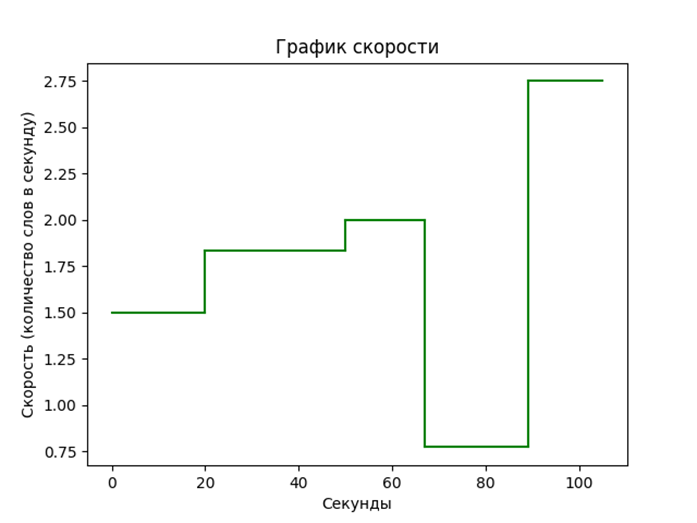
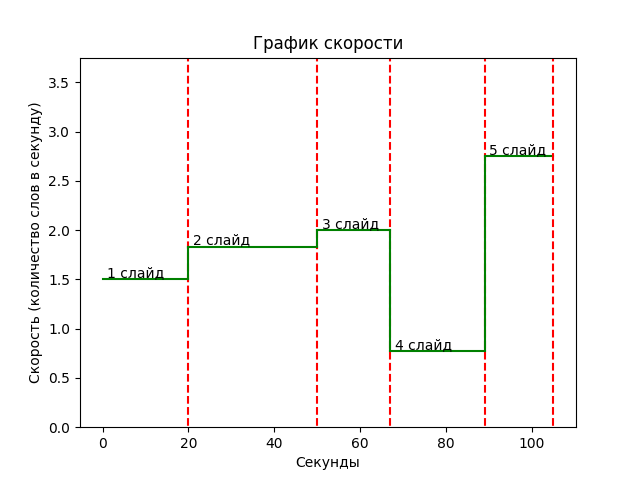
График скорости
Добавление линий, которые разделяют на графике слайде, и подписей, чтобы было понятно, на каком слайде была такая скорость.

Changed region(s): [[0.0625, 0.0625, 0.9062, 1.0], [0.0312, 0.1875, 0.125, 0.8125], [0.0625, 0.125, 0.125, 0.1875]]

diff --git a/analysis.py b/analysis.py
@@ -32,6 +32,7 @@ def wordsOnSlide(listWord):
 # и список полученный из wordsOnSlide
 def simpleSpeed(time, countWord):
     speed = []
+    max = 0
     for i in range(len(time)):
         if i == 0:
             t = time[0]
@@ -39,20 +40,22 @@ def simpleSpeed(time, countWord):
             t = time[i] - time[i - 1]
         speed.append(countWord[i] / t)
     for i in range(len(speed)):
+        if (max < speed[i]):
+            max = speed[i]
         if i == 0:
             pylab.plot([0.0, time[0]], [speed[i], speed[i]], 'g')
+            pylab.plot([time[0], time[0]], [-1.0, 10.0], 'r--')
+            pylab.text( 1.0, speed[i] + 0.02, str(i + 1) + ' слайд')
         else:
             pylab.plot([time[i - 1], time[i - 1]], [speed[i - 1], speed[i]], 'g')
             pylab.plot([time[i - 1], time[i]], [speed[i], speed[i]], 'g')
+            pylab.plot([time[i], time[i]], [-1.0, 10.0], 'r--')
+            pylab.text(time[i - 1] + 1, speed[i] + 0.02, str(i + 1) + ' слайд')
     pylab.title("График скорости")
     pylab.ylabel("Скорость (количество слов в секунду)")
     pylab.xlabel("Секунды")
+    pylab.ylim([0, max + 1])
     pylab.show()
-
-
-time = [20, 50, 67, 89, 105]
-countWord = [30, 55, 34, 17, 44]
-#simpleSpeed(time, countWord)
 
 # график скорости доклада
 # на первом графике показывается расход времени на слайд и среднее время на слайд
@@ -127,11 +130,13 @@ def comparisionOfTheme(dict, listWord):
     print(percent)
 
 
-dict = ['презентация', 'слайд номер один', 'слайд номер два', 'слайд слайд слайд', 'на слайде четыре', 'конец презентации']
-listWord = ['тестовая презентация', 'первый слайд', 'слайд номер два слайд номер два', 'слайд', 'слайд', 'конец']
+#dict = ['презентация', 'слайд номер один', 'слайд номер два', 'слайд слайд слайд', 'на слайде четыре', 'конец презентации']
+#listWord = ['тестовая презентация', 'первый слайд', 'слайд номер два слайд номер два', 'слайд', 'слайд', 'конец']
 
-comparisionOfTheme(dict, listWord)
+#comparisionOfTheme(dict, listWord)
 
-
+time = [20, 50, 67, 89, 105]
+countWord = [30, 55, 34, 17, 44]
+simpleSpeed(time, countWord)
 
 
